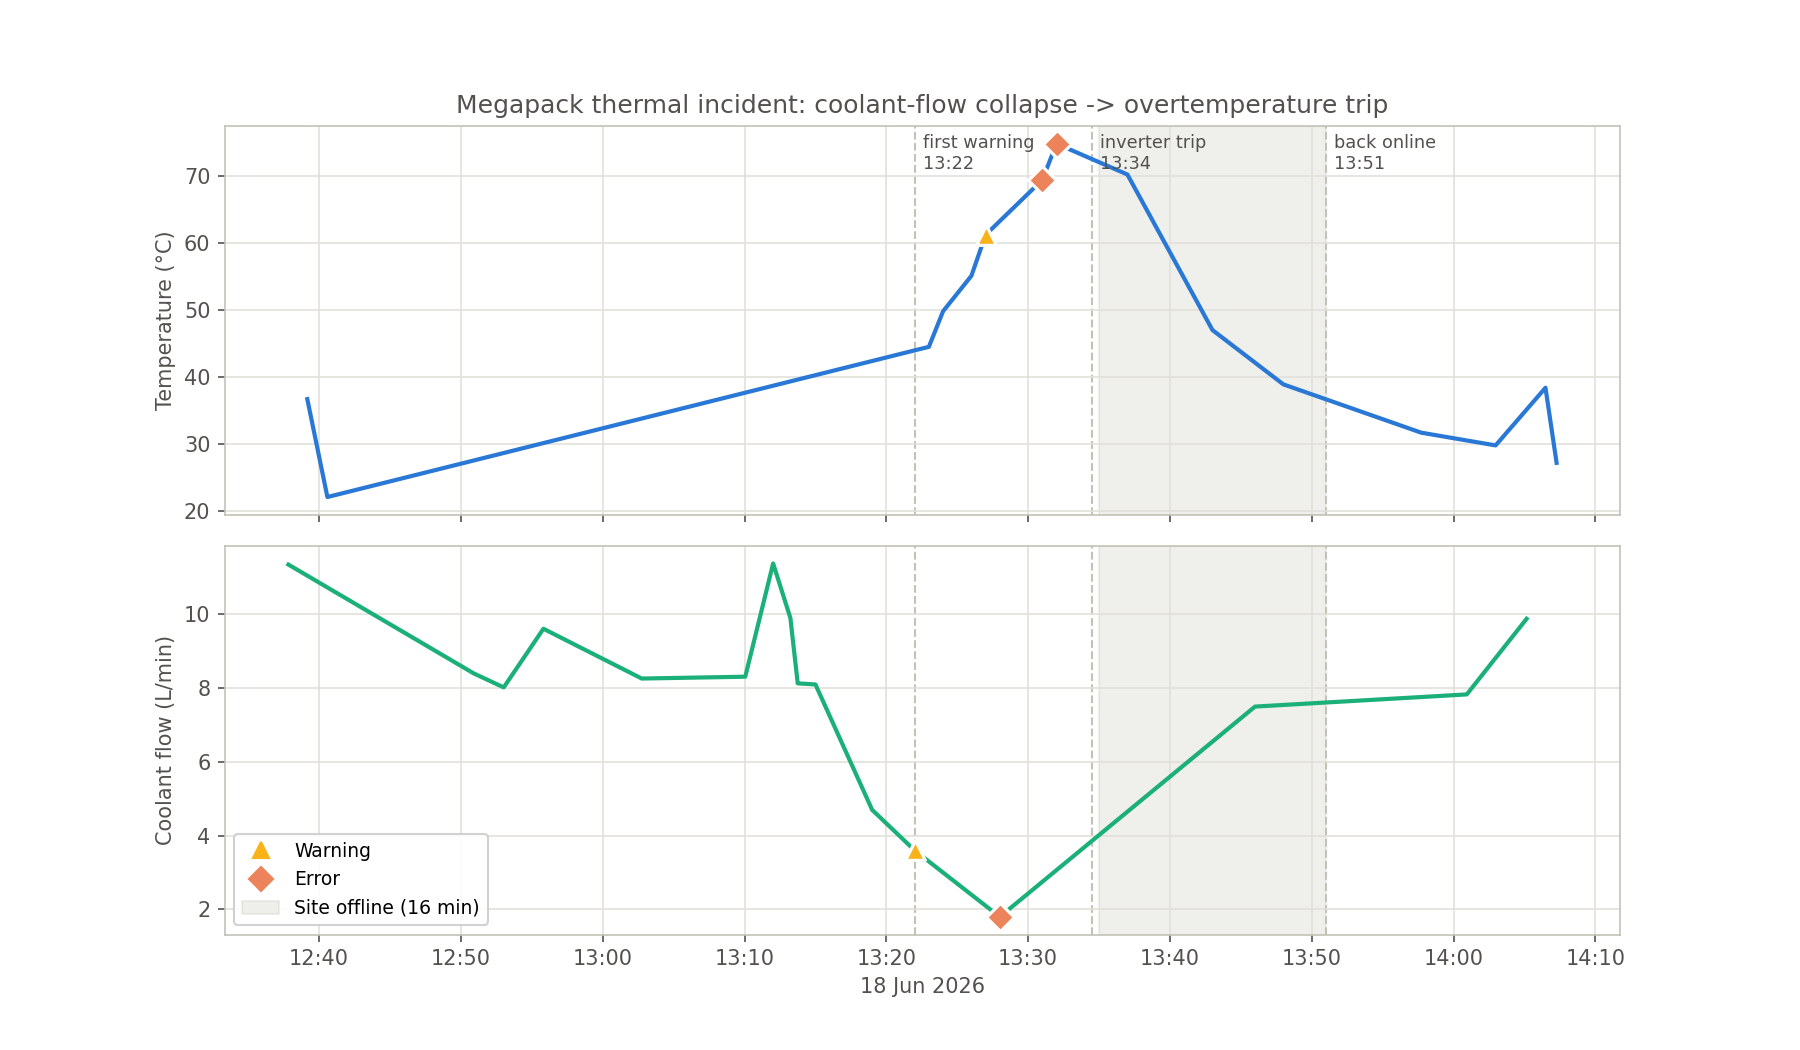
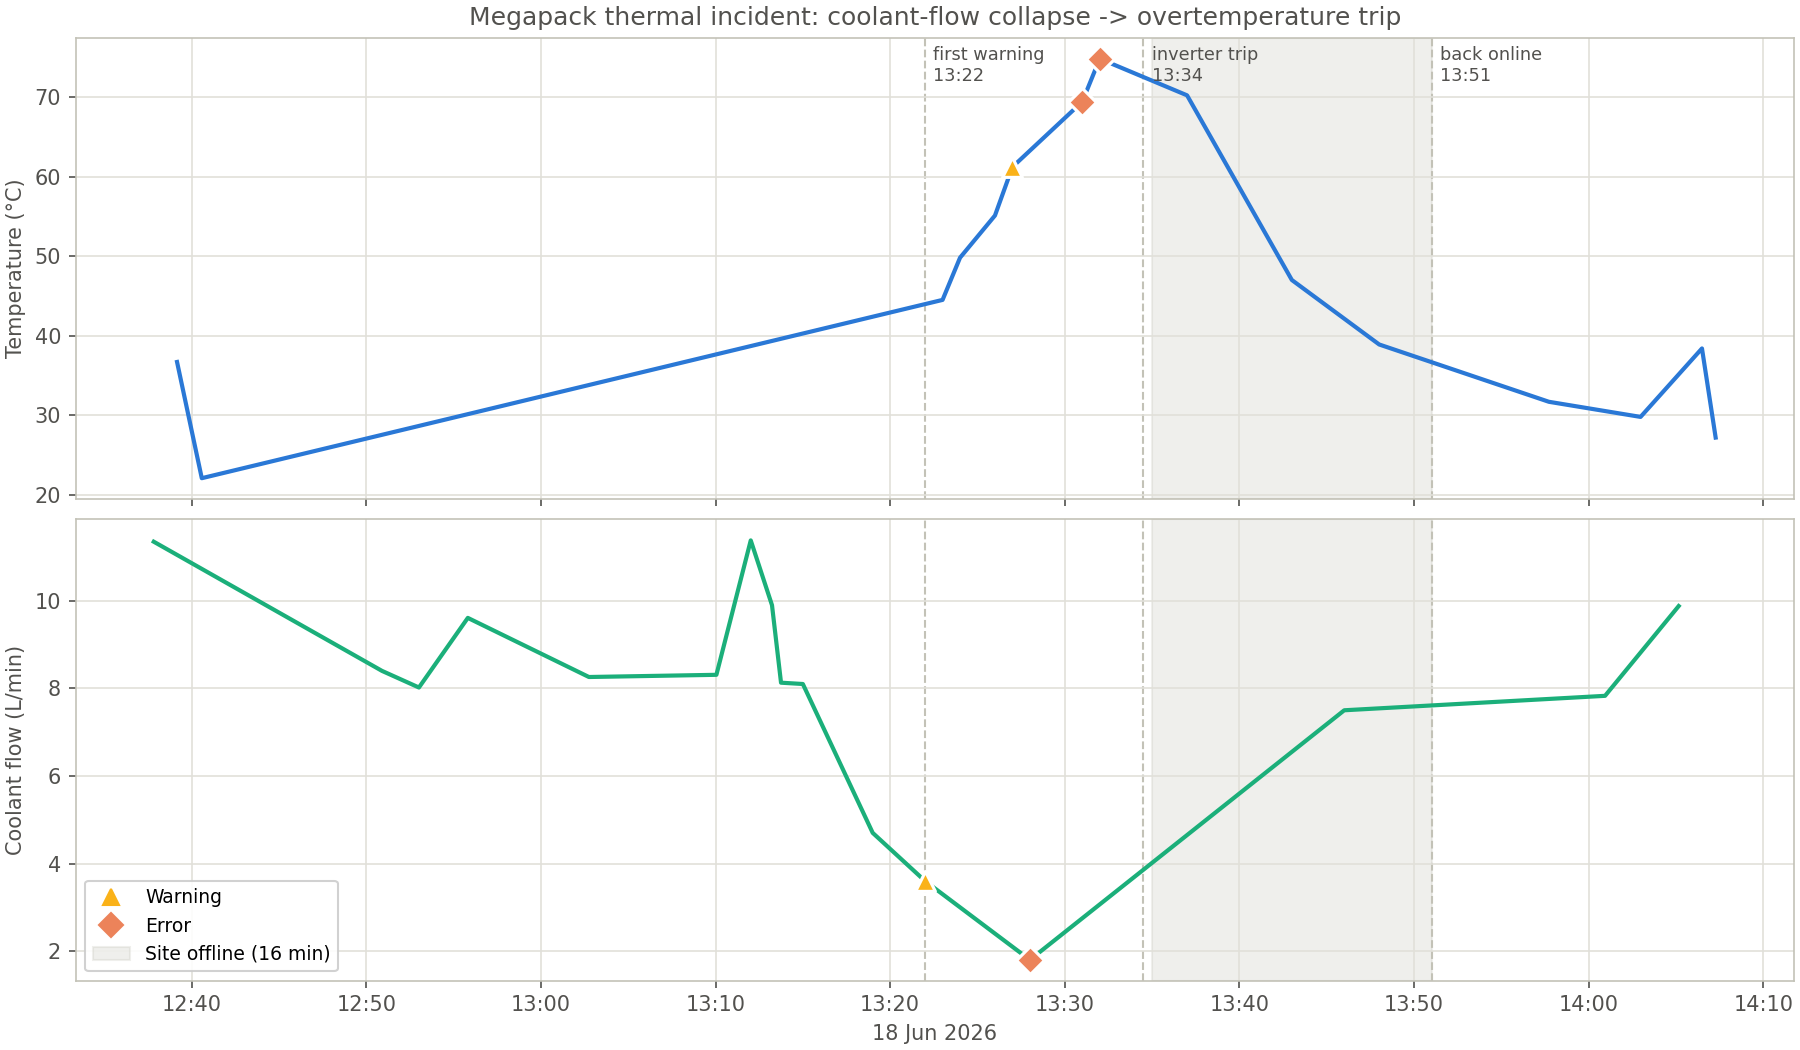
docs: Part 2 Step 5 - stakeholder report, README, deps, saved output
Part 2 findings section in report.md (ranked issues table, incident
narrative, actions), README approach/assumptions/with-more-time,
anthropic dep (optional at runtime), CLAUDE.md status, committed
console output; constrained layout for the incident chart.

diff --git a/diagnostics.py b/diagnostics.py
@@ -224,7 +224,7 @@ def plot_incident(events: pd.DataFrame, incident: dict) -> None:
     window = events[(events["timestamp"] >= start) & (events["timestamp"] <= end)]
 
     fig, (ax_temp, ax_flow) = plt.subplots(
-        2, 1, figsize=(12, 7), sharex=True, gridspec_kw={"hspace": 0.08})
+        2, 1, figsize=(12, 7), sharex=True, layout="constrained")
     panels = [(ax_temp, "temperature", "Temperature (°C)", "#2a78d6"),
               (ax_flow, "coolant_flow", "Coolant flow (L/min)", "#1baf7a")]
 
@@ -271,7 +271,6 @@ def plot_incident(events: pd.DataFrame, incident: dict) -> None:
     ax_flow.set_xlabel(f"{ep['start']:%d %b %Y}", color=INK)
     ax_temp.set_title("Megapack thermal incident: coolant-flow collapse -> overtemperature trip",
                       color=INK)
-    fig.tight_layout()
     CHART_PATH.parent.mkdir(exist_ok=True)
     fig.savefig(CHART_PATH, dpi=150)
     plt.close(fig)

diff --git a/README.md b/README.md
@@ -1,23 +1,29 @@
 # Tesla AI/Data Engineer Intern, Technical Assignment
 
-BESS revenue analysis (Part 1) and, to follow, fleet log intelligence with an
-agentic harness (Part 2).
+BESS revenue analysis (Part 1) and fleet log intelligence with an agentic
+harness (Part 2). Headline results and charts for both parts are in
+[report.md](report.md).
 
 ## How to run
 
 ```bash
 pip install -r requirements.txt
+
+# Part 1 - BESS revenue analysis
 python analysis.py
+
+# Part 2 - log ETL, diagnostics, agent demo
+python etl.py
+python diagnostics.py
+python -m agent.run_demo
+python -m agent.harness "how many errors per subsystem"   # ask your own question
 ```
 
-Requires Python 3.10+. The script prints the full analysis to the console and writes
-two things to `outputs/`:
-
-- `part1_outage_window.png`, the chart used in the report
-- `bess.db`, a SQLite database you can run `queries.sql` against directly
-  (`sqlite3 outputs/bess.db < queries.sql`)
-
-The headline result and chart are in [report.md](report.md).
+Requires Python 3.10+. Everything runs offline with no API key; setting
+`ANTHROPIC_API_KEY` upgrades the Part 2 agent from the keyword router to real
+LLM tool-calling (see Part 2 below). Outputs land in `outputs/`: charts used in
+the report, `bess.db` / `logs.db` (SQLite databases you can run `queries.sql`
+against), and saved console output for both parts.
 
 ## Approach
 
@@ -87,4 +93,84 @@ forecast and would carry the risk of that forecast being wrong.
   the FR Signal against the actual power output to see how closely the battery follows
   the grid, which is a quality measure rather than a money one.
 
-## Part 2, Fleet log intelligence (to follow)
+## Part 2, Fleet log intelligence
+
+Parsing lives in `etl.py`, diagnostics in `diagnostics.py`, and the agent in
+`agent/` — deliberately separate files because they are different jobs: turning
+messy text into a trustworthy table (deterministic ETL), interpreting that table
+(analysis), and exposing it to natural language (automation).
+
+### Approach
+
+**ETL.** The log looks clean but isn't: of 5,746 lines, five are malformed. The
+policy is *never silently drop* — every input line is accounted for. Lines that
+can be salvaged safely are kept with an explicit `salvage_note` (missing
+severity → `UNKNOWN`, empty subsystem → `UNKNOWN`, a truncated timestamp →
+seconds assumed `:00`); the one unparseable line (`CORRUPTED ENTRY ### sensor
+dropout`) is quarantined to a `rejected_lines` table with a reason, and one
+blank line is counted. Numeric values are extracted with one regex per message
+shape rather than "grab the first number", because in messages like
+`Overtemperature fault Module 7: 78.1°C` the module number comes first — a
+naive parser would store 7 instead of 78.1. Each row gets `metric`, `value`,
+`unit`, `module`, and a normalized `message_template` (numbers → N) that the
+SQL uses to group "error types".
+
+**Diagnostics.** Alerts (45 of 5,744 events) are clustered into episodes: a
+quiet gap of over an hour starts a new episode (alerts inside an ongoing issue
+recur every few minutes here, so an hour of silence separates unrelated
+stories). Each episode is scored (CRITICAL=10, ERROR=5, WARNING=1), tagged with
+the fleet-health issue types it contains (thermal event, coolant-flow loss,
+cell imbalance, voltage drop, grid-sync instability, SOC mismatch), and
+classified as internal vs externally-driven from evidence: grid-only signals
+plus self-recovery without a trip means external; a cross-subsystem escalation
+ending in a trip, or a progressive drift ending in an inspection flag, means
+internal. The three episodes this finds, and the reconstructed timeline of the
+18 June thermal incident, are in [report.md](report.md).
+
+**Agent.** Five deterministic tools over the structured database (query events,
+stats, plot signals, incident summary as JSON, service-ticket drafting) with
+two interchangeable routers on top. With `ANTHROPIC_API_KEY` set, a small LLM
+(`claude-haiku-4-5`) does real tool-calling: it picks the tools, reads their
+JSON results, and writes the answer. Without a key, a keyword router maps the
+assignment's prompts to the same tools and fills templates. The design rule is
+*LLM where language is the problem, plain code where correctness is the
+problem*: every number, timestamp and chart comes from a tool, never from the
+model, so answers are auditable against the database. Questions neither router
+can ground in tool results get an explicit "I can't answer that" — tools return
+structured errors (unknown metric, date outside the log) rather than defaults,
+so the LLM has nothing to hallucinate from, and the keyword router refuses
+anything unscripted. Known limitation of the fallback: it only handles the
+scripted intents, while LLM mode can compose tools for novel questions.
+`agent/transcript.md` shows the three assignment prompts answered end to end
+(text + JSON + chart).
+
+### Assumptions
+
+- Severity weights (10/5/1) and the 60-minute episode gap are judgment calls,
+  stated in code; results are not sensitive to reasonable alternatives.
+- "Today" is computed as the most recent calendar date in the file
+  (2026-06-18), not the wall-clock date, per the assignment's definition.
+- Ground-truth expectations about this specific file (45 alerts, 5 malformed
+  lines, 3 episodes) are printed ✓/⚠ checks, not hard asserts — the pipeline
+  stays usable on a different log file. Hard asserts are reserved for internal
+  consistency (line accounting, pandas-vs-SQL cross-checks).
+- The root-cause narrative names the coolant pump as the likely trigger (flow
+  collapsed while pump speed read 71%, and a pump restart fixed it); the logs
+  cannot distinguish pump wear from a blockage or a leak — that needs the site
+  visit the ticket recommends.
+
+### What I'd do with more time
+
+- **The bonus sections (B1 predictive RUL design, B2 auto-research agent
+  design)** — deliberately deferred to keep the core five steps polished; the
+  Module 4 imbalance data here would make a natural worked example for B1.
+- **Streaming ETL.** The parser reads the whole file; a real fleet emits logs
+  continuously, so the next step is incremental ingestion with the same
+  salvage/quarantine policy and idempotent upserts into the database.
+- **Learned thresholds.** Episode detection uses the log's own alert severities;
+  detecting *pre-alert* anomalies (the coolant flow was already sagging at
+  13:19, three minutes before the first WARNING) needs baselines per metric —
+  even simple rolling z-scores would have bought extra minutes of warning.
+- **Harden the agent.** Conversation memory (follow-up questions), a small eval
+  set of question/expected-tool pairs to regression-test routing, and running
+  the LLM answers against the JSON to auto-verify every quoted number.

diff --git a/CLAUDE.md b/CLAUDE.md
@@ -1,0 +1,48 @@
+# CLAUDE.md
+
+This file provides guidance to Claude Code (claude.ai/code) when working with code in this repository.
+
+## What this is
+
+Tesla AI/Data Engineer Intern technical assignment, two parts (both complete):
+
+- **Part 1**: BESS (battery energy storage) revenue analysis of `data/merged_bess_market_data.csv` (15-minute readings, Jan–Jun 2024, 200 MWh UK site). Deliverables: `analysis.py`, `queries.sql`, `report.md`.
+- **Part 2 (the main part)**: fleet log intelligence over `data/MP_Logs.txt` (pipe-delimited Megapack logs, 3 days, 5 subsystems). Deliverables: `etl.py` (parse/validate/persist), `diagnostics.py` (episodes, incident root-cause, SQL insights), `agent/` (NL question harness + transcript), Part 2 sections in `report.md`/`README.md`. The bonus sections (B1/B2 designs, `bonus.md`) are deliberately deferred — noted in README's "with more time".
+
+## Commands
+
+```bash
+pip install -r requirements.txt   # pandas, matplotlib, anthropic; Python 3.10+
+python analysis.py                # Part 1: prints analysis, writes outputs/
+python etl.py                     # Part 2 step 1: builds outputs/logs.db + CSV
+python diagnostics.py             # Part 2 steps 2+3 (auto-builds logs.db if missing)
+python -m agent.run_demo          # Part 2 step 4: 3 prompts -> agent/transcript.md
+python -m agent.harness "..."     # ask the agent one question
+sqlite3 outputs/bess.db < queries.sql   # Part 1 SQL standalone
+```
+
+The agent runs in LLM mode (Anthropic tool-calling, `claude-haiku-4-5`) iff `ANTHROPIC_API_KEY` is set; otherwise a deterministic keyword router answers the scripted intents and refuses everything else. Both modes share the same five tools in `agent/tools.py`.
+
+There are no tests or linters configured. The scripts self-verify: hard asserts for internal consistency (line accounting, pandas-vs-SQL cross-checks, brute-force window scan) and printed `OK/WARN` checks for ground-truth expectations about the shipped data files (45 alerts, 5 malformed lines, 3 episodes, incident timings). A successful run with all `OK` is the regression check.
+
+## Architecture and conventions
+
+`analysis.py` (Part 1) is a single linear pipeline: `load_data` (strict validation — fails fast on missing columns, nulls, duplicate/unsorted timestamps, or gaps in the 15-minute grid) → energy summary → revenue by mode → worst 14-day outage window → SQL insights → chart.
+
+Part 2 is layered: `etl.py` (deterministic parsing; malformed lines are salvaged with a `salvage_note` or quarantined to `rejected_lines`, never silently dropped) → `diagnostics.py` (imports `etl`; episode clustering with a 60-min quiet gap, severity-weighted ranking, issue-type tags, internal/external classification, incident reconstruction) → `agent/tools.py` (imports `diagnostics` for episode/incident logic — DRY) → `agent/harness.py` (LLM loop + fallback router) → `agent/run_demo.py` (writes `agent/transcript.md`).
+
+Part 2 parsing traps that must not regress: module-bearing messages ("Overtemperature fault Module 7: 78.1°C") put the module id BEFORE the value, so `etl.py` uses per-template regexes with separate named groups, never "first number wins"; the log file is UTF-8 (°C is multi-byte) and `diagnostics.py` reconfigures stdout to UTF-8 before printing messages.
+
+Domain conventions that must stay consistent across `analysis.py`, `queries.sql`, `report.md`, and `README.md`:
+
+- **Revenue is NET**: `revenue_gbp = power_mw × 0.25h × price`. Positive power = discharge (earns), negative = charge (costs). Gross (discharge-only) is reported alongside for transparency, but net drives all conclusions.
+- The 14-day outage window must lie fully inside Q1 2024 (1 Jan – 31 Mar).
+- The dataset is treated as synthetic: after SOC correction the implied round-trip loss is ~zero, which is physically impossible; the report calls this out deliberately.
+
+Coupling between files:
+
+- `queries.sql` is split on the literal string `"Part 2"`: `analysis.py:run_sql()` runs only statements BEFORE the marker (against `bess_readings` in `outputs/bess.db`); `diagnostics.py:run_part2_sql()` runs only statements AFTER it (against `log_events` in `outputs/logs.db`). Both runners split statements on `;` BEFORE stripping `--` comments — so comments in `queries.sql` must never contain a semicolon or an extra occurrence of "Part 2" (this bit once; the file warns about it).
+- Table schemas the SQL depends on: `bess_readings` (`timestamp`, `date`, `soc_pct`, `power_mw`, `freq_reg_signal_hz`, `operational_mode`, `market_price_gbp_mwh`, `energy_mwh`, `revenue_gbp`) and `log_events` (`timestamp`, `date`, `hour`, `subsystem`, `severity`, `message`, `message_template`, `metric`, `value`, `unit`, `module`, `salvage_note`, `raw_line_no`).
+- `report.md` embeds `outputs/part1_outage_window.png` and `outputs/part2_incident.png`; the numbers in `report.md` and `README.md` are hand-written from script output, so re-check them if analysis logic changes. `outputs/part*_console_output.txt` are saved copies of full runs (committed; regenerate if output changes). `agent/transcript.md` is generated by `python -m agent.run_demo` (regenerate after tool/harness changes; run with `ANTHROPIC_API_KEY` set for an LLM-mode transcript).
+
+`outputs/bess.db`, `outputs/logs.db` and `outputs/log_events.csv` are gitignored (recreated on every run); the PNGs, console outputs and transcript are committed deliverables.

diff --git a/report.md b/report.md
@@ -18,3 +18,33 @@ dataset (24 March) falls on the last day of this window.
 All figures are *net* revenue (discharge income minus charging cost), which is the right
 measure here: an offline site loses its discharge earnings but also stops paying to
 charge.
+
+# Part 2, Fleet Log Findings
+
+**On 18 June a coolant-pump failure took the Megapack offline for 16 minutes.** Coolant
+flow collapsed from its normal 6–11 L/min to 1.8 L/min in about ten minutes; with cooling
+lost, temperature blew past the safe threshold (74.8°C, with a BMS module fault at
+78.1°C), the BMS applied a thermal derate, and the inverter tripped on overtemperature,
+triggering a protective site shutdown. Only 12.5 minutes elapsed between the first
+warning (13:22) and the trip (13:34:30) — a tight but real intervention window. The site
+recovered at 13:51 after the coolant pump restarted. This is an **internal fault**: the
+evidence chain runs Thermal → BMS → Inverter → Site, with nothing grid-side.
+
+![Thermal incident](outputs/part2_incident.png)
+
+Three days of logs contain three distinct issues, ranked by severity:
+
+| # | When | Issue | Verdict | Action |
+|---|------|-------|---------|--------|
+| 1 | 18 Jun 13:22–13:51 | Coolant-flow loss → thermal trip → protective shutdown | Internal fault | **Inspect/replace the coolant pump before returning to full dispatch** — the restart fixed the symptom, not the cause |
+| 2 | 17 Jun 12:04–16:04 | Battery Module 4 cell imbalance drifting 0.10→0.17 V over ~3 h, with SOC mismatches, ending in a critical voltage drop | Internal, progressive — no self-recovery | **Module 4 is flagged for inspection**; schedule cell-balancing diagnostics |
+| 3 | 16 Jun 08:31–08:38 | Grid under-frequency (49.58 Hz) with repeated sync loss | External, self-resolving | None — the site rode through and re-synced on its own |
+
+The two internal issues deserve a maintenance visit; the pump is urgent (it already
+caused downtime), Module 4 is preventive (it hasn't tripped anything yet, but the trend
+is one-directional). The grid event needs no action and shows the protection logic
+distinguishing external disturbances correctly.
+
+Full timelines, per-subsystem statistics and SQL detail: `outputs/part2_console_output.txt`.
+A natural-language interface over these logs (summaries, plots, service tickets) is in
+`agent/` — see `agent/transcript.md` for it answering the assignment's three prompts.